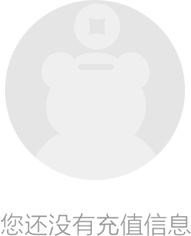
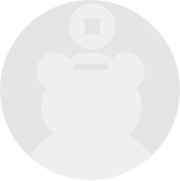
我的账户模块--默认背景图

diff --git a/wechat/src/main/webapp/xcviews/html/receive.html b/wechat/src/main/webapp/xcviews/html/receive.html
@@ -37,14 +37,14 @@
 		}
 		.null_kongbai_cen{
 			width: 5.525rem;
-				height: 7.45rem;
-				margin: 0 auto;
-				margin-top: 4.75rem;
+			height: 7.45rem;
+			margin: 0 auto;
+			margin-top: 8.75rem;
 		}
 		.null_kongbai_cen1{
-			width: 7.425rem;
-			height: 7.225rem;
-			background: url(/xcviews/images/null10.png) no-repeat;;
+			width: 4.5rem;
+			height: 4.525rem;
+			background: url(/xcviews/images/video_null.png) no-repeat;;
 			background-size:100% 100%;
 		}
 		.attention_left{
@@ -55,16 +55,12 @@
 		.detail{
 			margin-top: 2.2rem;
 		}
-		/*.detail_top p{
-			font-size: 0.7rem;
-		}
-		.detail_cen p{
-			font-size: 0.7rem;
-		}*/
-	
-		.attention_right{
-			/*font-size: 0.7rem;*/
-    		/*margin-top: 0.8rem;*/
+		.body_p{
+			font-size: 0.6rem;
+			color: #999;
+			text-align: center;
+			margin-top: 0.85rem;
+			display: none;
 		}
 	</style>
 </head>
@@ -82,6 +78,7 @@
 	    <div class="null_kongbai">
 			<div class="null_kongbai_cen">
 			</div>
+			<p class="body_p">您好没有收到任何礼物！</p>
 		</div>
 		<div id="refreshContainer" class="mui-content mui-scroll-wrapper">
 			  <div class="mui-scroll"  style="margin-top:2rem;">
@@ -149,6 +146,7 @@ function giftList(downOrOn){
 			if(num == "0") {
 				$('.null_kongbai_cen').addClass('null_kongbai_cen1');
 				$('body').css('background','#efefef');
+				$(".body_p").show();
 			} else {
 				mui('#refreshContainer').pullRefresh().endPullupToRefresh(true);
 				$('body').css('background','url(/xcviews/images/index_bg.jpg)');

diff --git a/wechat/src/main/webapp/xcviews/html/diary.html b/wechat/src/main/webapp/xcviews/html/diary.html
@@ -38,12 +38,12 @@
 			width: 7.425rem;
 			height: 7.225rem;
 			margin: 0 auto;
-			margin-top: 4.75rem;
+			margin-top: 8.75rem;
 		}
 		.null_kongbai_cen1{
-			width: 7.425rem;
-			height: 7.225rem;
-			background: url(/xcviews/images/null11.png) no-repeat;;
+			width: 4.5rem;
+			height: 4.525rem;
+			background: url(/xcviews/images/video_null.png) no-repeat;;
 			background-size:100% 100%;
 		}
 		.attention_left{
@@ -54,16 +54,12 @@
 		.detail{
 			margin-top: 2.2rem;
 		}
-		/*.detail_top p{
-			font-size: 0.7rem;
+		.body_p{
+			font-size: 0.6rem;
+			color: #999;
+			text-align: center;
+			margin-top: 0.85rem;
 		}
-		.detail_cen p{
-			font-size: 0.7rem;
-		}
-	    .attention_right{
-			font-size: 0.7rem;
-    		margin-top: 0.8rem;
-		}*/
 	</style>
 </head>
 
@@ -78,8 +74,8 @@
 		<div class="both"></div>
 		
 	    <div class="null_kongbai">
-			<div class="null_kongbai_cen">
-			</div>
+			<div class="null_kongbai_cen"></div>
+			<p class="body_p">您还没有收到任何打赏！</p>
 		</div>
 		
 		<div id="refreshContainer" class="mui-content mui-scroll-wrapper">
@@ -157,6 +153,7 @@
 				if(num == "0") {
 					$('.null_kongbai_cen').addClass('null_kongbai_cen1');
 					$('body').css('background','#efefef');
+					$(".body_p").show();
 				} else {
 					mui('#refreshContainer').pullRefresh().endPullupToRefresh(true);
 					$('body').css('background','url(/xcviews/images/index_bg.jpg)');

diff --git a/wechat/src/main/webapp/xcviews/html/recharge.html b/wechat/src/main/webapp/xcviews/html/recharge.html
@@ -28,11 +28,11 @@
 		width: 5.625rem;
 		height: 7.45rem;
 		margin: 0 auto;
-		margin-top: 4.75rem;
+		margin-top: 8.75rem;
 	}
 	.non_payment_null_img{
-		width: 4.775rem;
-    	height: 5.9rem;
+		width: 4.5rem;
+		height: 4.525rem;
 		background: url(/xcviews/images/null09.png) no-repeat;;
 		background-size:100% 100%;
 	}
@@ -51,6 +51,13 @@
 	    margin-top: 0.2rem;
 	    color: #00bc12;
 	}
+	.body_p{
+		font-size: 0.6rem;
+		color: #999;
+		margin-top: 0.85rem;
+		text-align: center;
+		display: none;
+	}
 </style>
 
 <body style="background:#efefef;">
@@ -63,6 +70,7 @@
 		</div>
 		<div class="both"></div>
 		<div class="non_payment_null1"></div>
+		<p class="body_p">您还没有充值信息！</p>
 		<div id="refreshContainer" class="mui-content mui-scroll-wrapper">
 			  <div class="mui-scroll"  style="margin-top:2rem;">
 			  <div class="attention_center" style="margin-top:0.25rem;">
@@ -126,6 +134,7 @@ function rechargeList(downOrOn){
 			if(num == "0") {
 				$('.non_payment_null1').addClass('non_payment_null_img');
 				$('body').css('background','#efefef');
+				$('.body_p').show();
 			} else {
 				mui('#refreshContainer').pullRefresh().endPullupToRefresh(true);
 				$('body').css('background','url(/xcviews/images/index_bg.jpg)');

diff --git a/wechat/src/main/webapp/xcviews/html/reference.html b/wechat/src/main/webapp/xcviews/html/reference.html
@@ -29,13 +29,13 @@
 	width: 5.625rem;
 	height: 7.45rem;
 	margin: 0 auto;
-	margin-top: 4.75rem;
+	margin-top: 8.75rem;
 }
 
 .non_payment_null_img {
-	width: 5.625rem;
-	height: 7.45rem;
-	background: url(/xcviews/images/null07.png) no-repeat;;
+	width: 4.5rem;
+	height: 4.525rem;
+	background: url(/xcviews/images/null05.png) no-repeat;;
 	background-size: 100% 100%;
 }
 
@@ -75,6 +75,13 @@
     margin-top: 0.2rem;
     color: #00bc12;
 }
+.body_p{
+	font-size: 0.6rem;
+	color: #999;
+	text-align: center;
+	margin-top: 0.85rem;
+	display: none;
+}
 </style>
 </head>
 
@@ -88,6 +95,8 @@
 		<div class="both"></div>
 		
 		<div class="non_payment_null1"></div>
+		<p class="body_p">您还没有体现消息！</p>
+		
 		<div id="refreshContainer" class="mui-content mui-scroll-wrapper">
 			<div class="mui-scroll" style="margin-top: 1.75rem;">
 				<div class="attention_center" style="margin-top:0.5rem;">
@@ -184,6 +193,7 @@
 								if (num == "0") {
 									$('.non_payment_null1').addClass('non_payment_null_img');
 									$('body').css('background', '#efefef');
+									$(".body_p").show();
 								} else {
 									mui('#refreshContainer').pullRefresh()
 											.endPullupToRefresh(true);

diff --git a/wechat/src/main/webapp/xcviews/html/consume.html b/wechat/src/main/webapp/xcviews/html/consume.html
@@ -27,11 +27,18 @@
 			width: 5.525rem;
 			height: 7.45rem;
 			margin: 0 auto;
-			margin-top: 4.75rem;
+			margin-top: 8.75rem;
+		}
+		.attention_center_p{
+			font-size: 0.6rem;
+			color: #999;
+			margin-top: 0.85rem;
+			display: none;
+			text-align: center;
 		}
 		.non_payment_null_img{
-			width: 5.525rem;
-			height: 7.45rem;
+			width: 4.5rem;
+    		height: 4.525rem;
 			background: url(/xcviews/images/null05.png) no-repeat;;
 			background-size:100% 100%;
 		}
@@ -71,7 +78,8 @@
 		</div>
 		<div class="both"></div>
 		<div class="attention_center">
-		<div class="non_payment_null1"></div>
+			<div class="non_payment_null1"></div>
+			<p class="attention_center_p">您还没有消费信息！</p>
 			<ul id="clist">
 				<div class="both"></div>
 			</ul>
@@ -102,8 +110,10 @@
 			}
             if(html!=''){    
             	$('.non_payment_null1').remove();
+            	$(".attention_center_p").hide();
             }   else{
             	$('.non_payment_null1').addClass('non_payment_null_img');
+            	$(".attention_center_p").show();
             }
 			$("#clist").html(html);
         }

diff --git a/wechat/src/main/webapp/xcviews/html/queryResult.html b/wechat/src/main/webapp/xcviews/html/queryResult.html
@@ -54,7 +54,7 @@
 		width: 7.675rem;
 		height: 7.375rem;
 		margin: 0 auto;
-		margin-top: 4.75rem;
+		margin-top: 6.45rem;
 		display: none;
 	}
 	.non_payment_nul_img{
